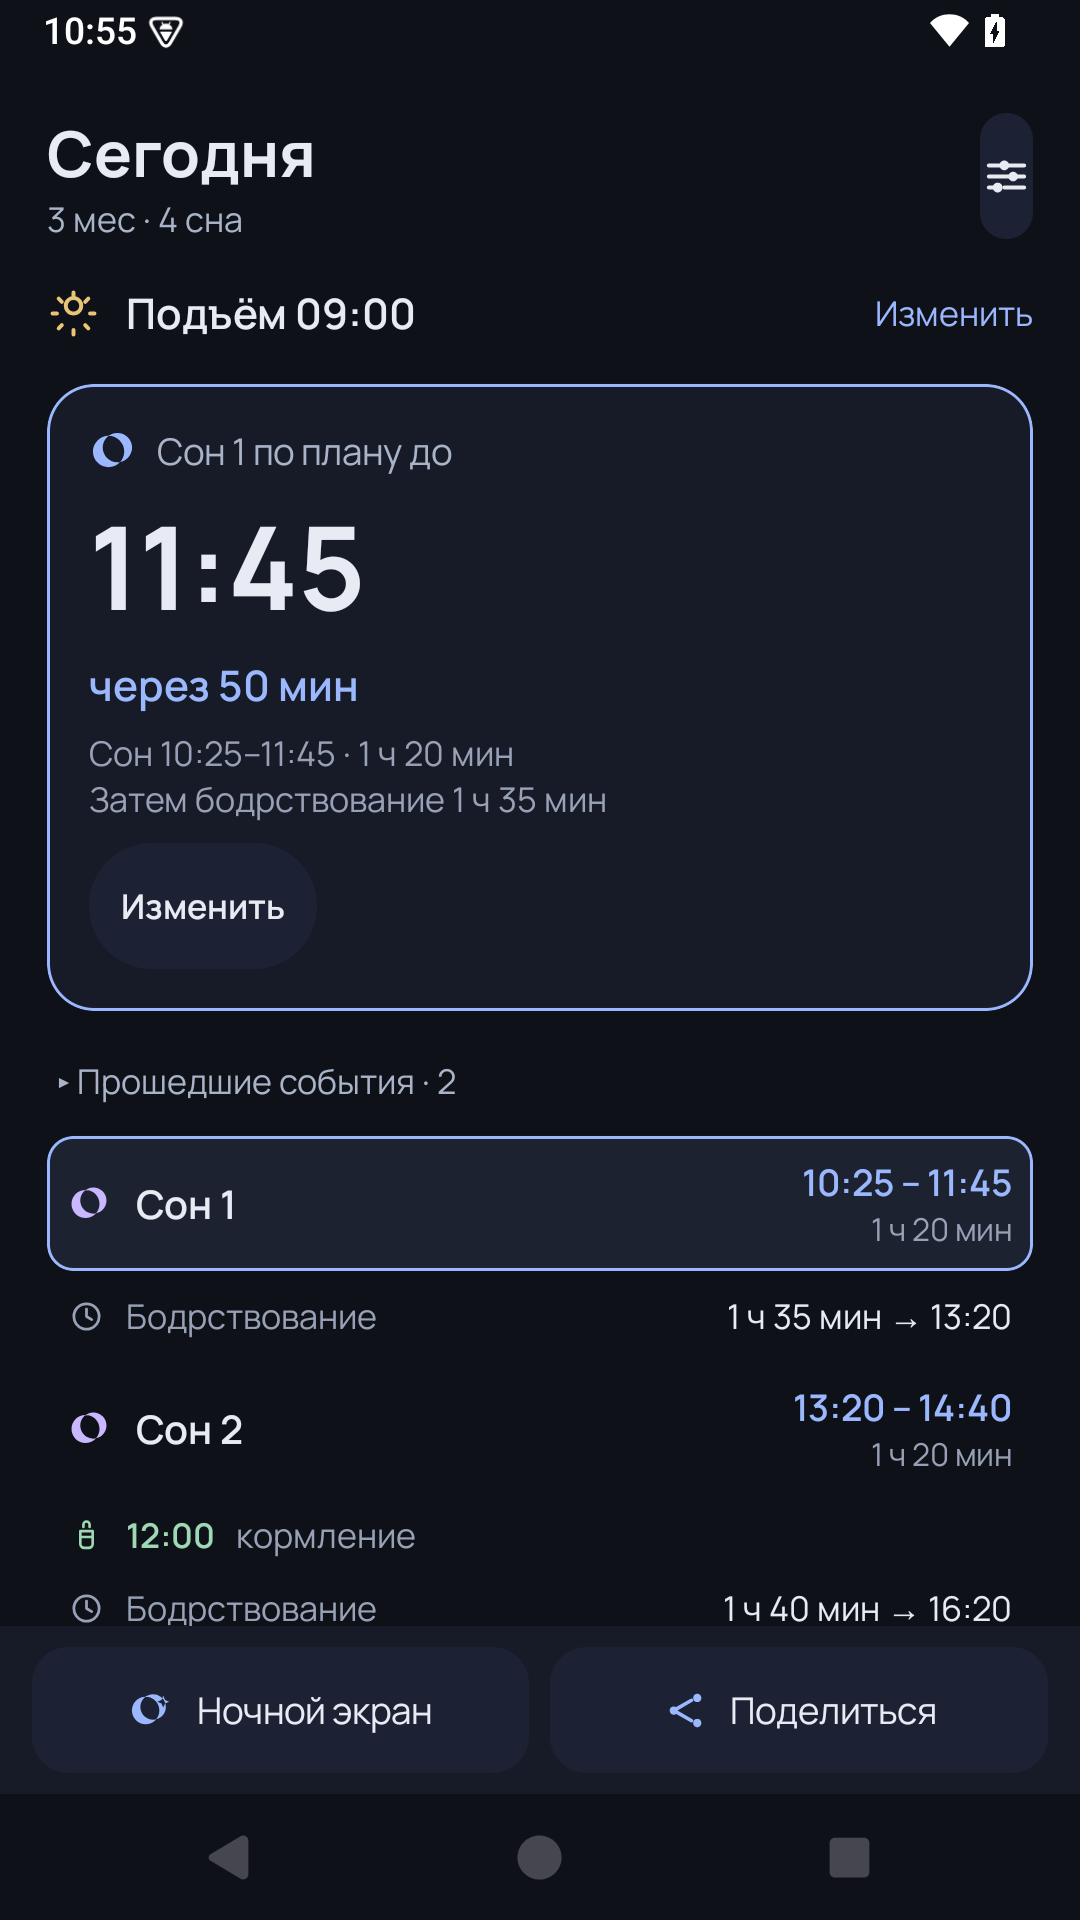
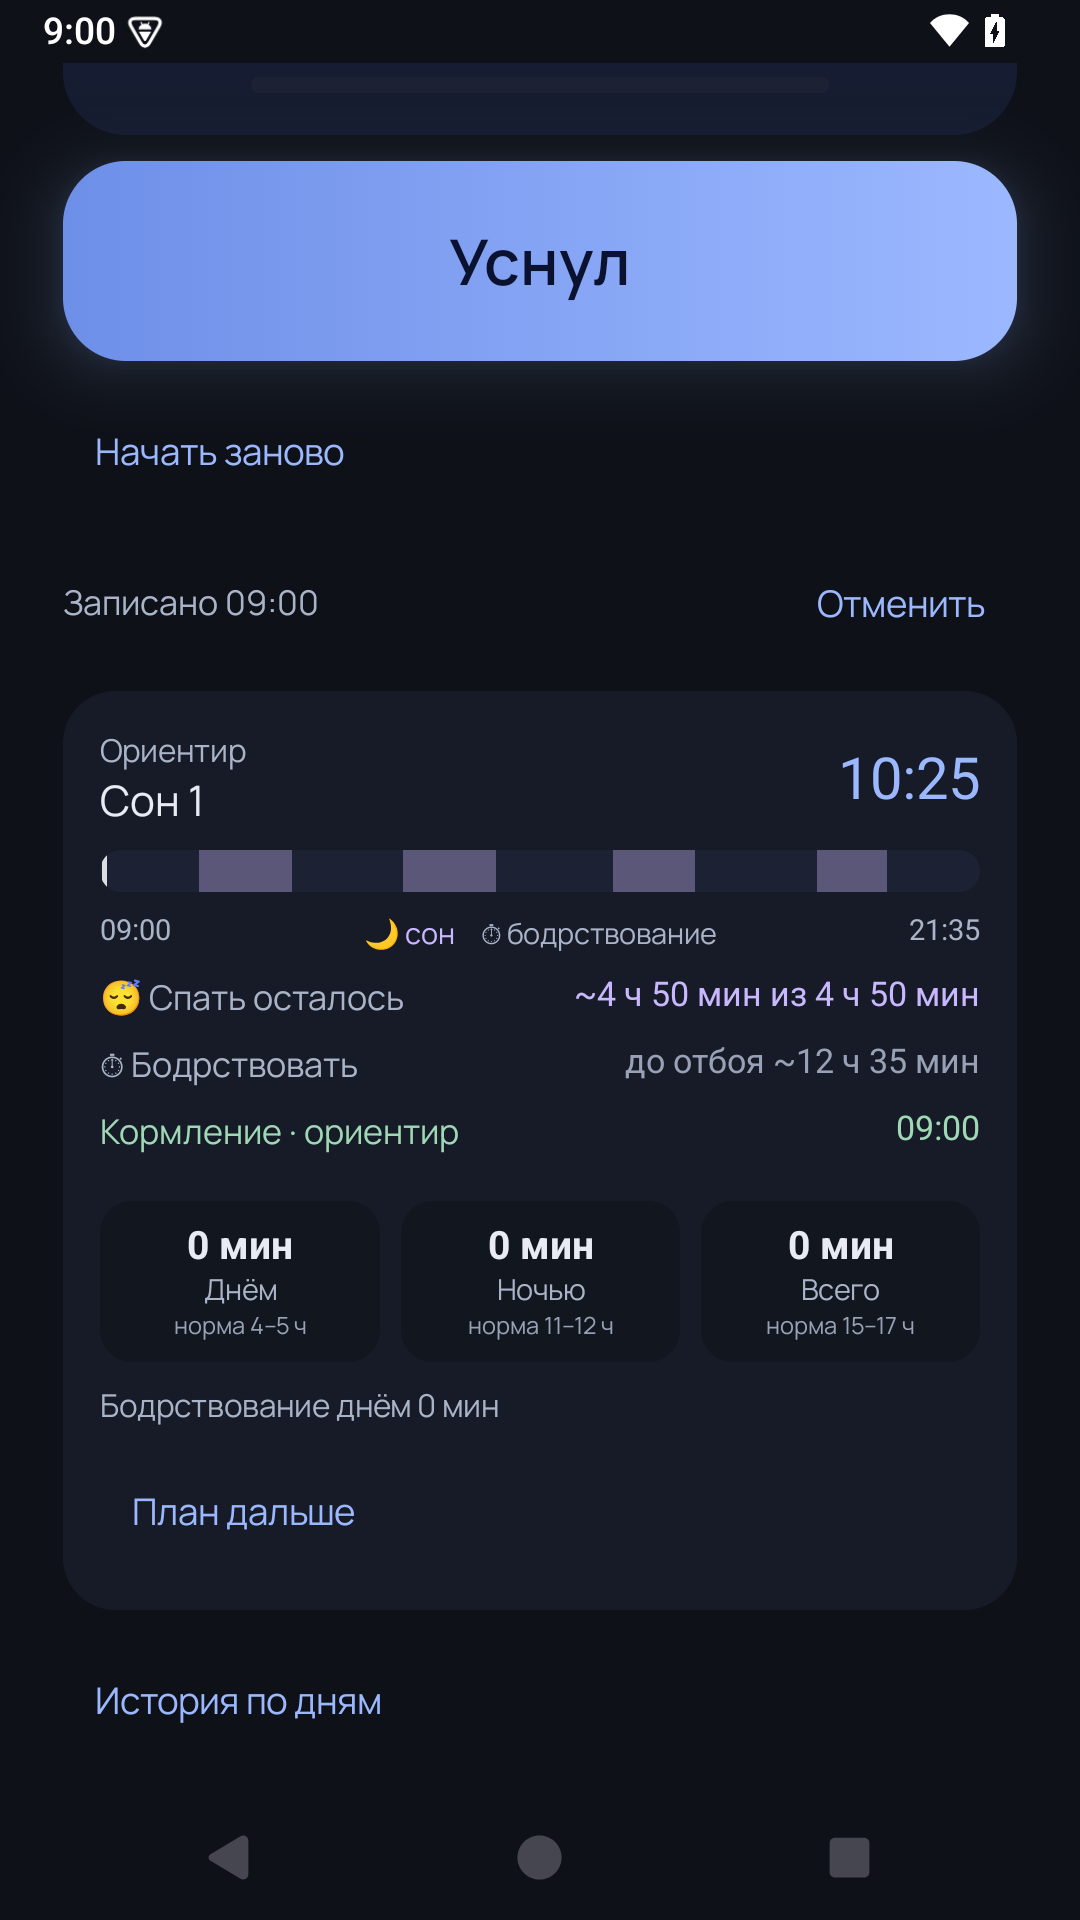
REVIEW-BRIEF: постановка ревью v1.16.1 для нейросети (корректность + UX/UI); свежие скриншоты

diff --git a/docs/REVIEW-BRIEF.md b/docs/REVIEW-BRIEF.md
@@ -1,0 +1,119 @@
+# REVIEW BRIEF — ревью BaSleep v1.16.1 (UX/UI + корректность расчётов)
+
+> Скорми этот файл нейросети вместе с исходниками репозитория
+> https://github.com/petershor99-qa/BaSleep (публичный) и скриншотами
+> приложения. Задача — ревью: найти ошибки расчётов и предложить
+> улучшения UX/UI. Это постановка на АНАЛИЗ, не на переделку.
+
+Дата: 08.11.2026. Версия: 1.16.1 (versionCode 19). Автор кода: владелец +
+другой ИИ-ассистент (история коммитов). Перед ревью прочитай
+`AI-INSTRUCTIONS.md` (правила проекта) и `docs/UX-*.md` (что менялось).
+
+## 1. Что за приложение
+
+Трекер сна младенца 3–5 месяцев (сейчас 3 мес), Android, Kotlin,
+Jetpack Compose, тёмная тема, русский язык. Одна главная кнопка
+«Уснул / Проснулся» записывает реальное время с точностью до минуты
+(через панель подтверждения с подставленным временем). Возрастная схема
+(окна бодрствования, число снов, длительности) строит ПРОГНОЗ от
+фактического пробуждения. Есть журнал последних 14 дней, виджет,
+ночной экран, экспорт в Telegram.
+
+## 2. Файлы и зоны ответственности
+
+| Файл | Что внутри | Строк |
+|---|---|---|
+| `SleepEngine.kt` | Старый калькулятор (прогнозная база, объект SleepEngine) + **LiveTracker** — трекер: фазы READY/AWAKE/NAP/NIGHT/NIGHT_AWAKE, toggle/startNight/startDay/clockTime/correct/forecasts/nextFeed | ~611 |
+| `History.kt` | Журнал интервалов текстом в SharedPreferences: parse/serialize/transition/totals/days, хвост 14 дней | 130 |
+| `Prefs.kt` | Сессия+undo атомарно, history, кормления, настройки, loadLive с флагом corrupt | 93 |
+| `MainActivity.kt` | Весь UI: герой с градиентом, панель записи (ClockEditor), карточка «День» (полоса сегментами), плитки факта, настройки, ночной экран | ~1000 |
+| `WidgetNext.kt` | Виджет: фаза + ближайший прогноз + полоса прогресса этапа | 70 |
+
+Тесты: `SleepEngineTest.kt` (27), `LiveTrackerTest.kt` (15), `HistoryTest.kt`
+(12), `TimeInputTest.kt` (2) = 56. Все зелёные. Сборка:
+`gradle :app:testDebugUnitTest :app:assembleDebug` (JDK 17, SDK 35).
+
+## 3. Задача А — ревью корректности (приоритет)
+
+Проверь, что приложение «точно всё считает и делает правильно». Особенно:
+
+1. **LiveTracker.toggle/startNight/startDay/correct** — хронология, границы
+   (событие ровно в предыдущее, ровно в «сейчас», ночь через полночь,
+   clockTime «вчера» для будущих часов: можно ли записать событие старше
+   24 ч? Требование UX-1.14: только часы/минуты, последнее прошедшее
+   вхождение).
+2. **forecasts()** — прогноз от факта: компенсация после короткого/длинного
+   сна (±15 мин, clamp), учёт regress, конец схемы (все 4 сна отработаны —
+   должен остаться «Ночной сон»), NIGHT-фаза (ночь = 1440 − Σокон − Σснов —
+   не зависит от regress: осознанно или недосмотр?).
+3. **History.transition/totals** — как buckets'ятся ночи (поле day =
+   dayStart предыдущего подъёма): корректно ли «Прошлой ночью» на главном
+   экране (MainActivity берёт maxByOrNull { it.end } из ВСЕХ NIGHT,
+   не фильтруя по дню), при ночи через полночь, при «Начать заново».
+4. **Полоса дня на главном** — анкер: wakeTod из state.dayStart; если день
+   сдвинут (проснулся в 11:53), план строится от 09:00? Проверь логику
+   выравнивания плана и факта, маркер «сейчас» (nowMin vs dayLen),
+   подсветку текущего сегмента.
+5. **Prefs.saveLive/loadLive** — атомарность, corrupt-флаг, undo глубиной 1.
+6. **WidgetNext** — RemoteViews, setInt/setTextColor ограничения, PendingIntent.
+7. **Крайние случаи**: DST-переход, смена дня во время открытой панели,
+   «Отменить» после «Начать заново», повторный быстрый тап (900 мс guard),
+   corrupt-сессия, пустые feeds, feeds после полуночи (nextFeed).
+
+Формат находок: **P1 (ошибка расчёта/логики) / P2 (UX-баг) / P3 (мелочь)**,
+каждая — файл:строка, сценарий воспроизведения, ожидание vs факт. Сначала
+подтверди по коду, потом предлагай минимальный фикс. Всё, что меняет
+математику — только в SleepEngine.kt + тесты (в проекте правило:
+изменение движка без теста = баг).
+
+## 4. Задача Б — ревью UX/UI
+
+Смотри скриншоты (приложены к этому брифу) и/или запусти на эмуляторе
+(инструкция в AI-INSTRUCTIONS.md, screen 1080×2340, density 420).
+
+Главный экран сейчас: шапка (имя · схема, шестерёнка) → герой-карточка с
+градиентом (статус, длительность, «С 09:00», подсказка нормы с полоской) →
+градиентная кнопка «Уснул/Проснулся» → «Начать заново» → undo-строка →
+карточка «День» (полоса дня сегментами с подписями времени и легендой,
+«Ориентир» с временем, «😴 Спать осталось», «⏱ до отбоя», кормление,
+плитки «Факт»: Дневной сон / Прошлой ночью / За сутки, «План дальше») →
+«История по дням».
+
+Оцени и предложи (по 1–2 строки на идею, с приоритетом):
+1. Понятность полосы дня (сегменты/маркер/подсветка) — пользователь уже
+   путался «тёмный кусок = спит?».
+2. Плитки факта: подписи «Дневной сон / Прошлой ночью / За сутки» — ясны ли
+   без объяснений; подсветка у лимитов (янтарная за 15 мин до нормы).
+3. Панель записи: автофокус «Часы» с выделенным текстом, авто-переход на
+   «Минуты» — достаточно ли, что ещё улучшить.
+4. Визуал: градиенты, свечение кнопки, breathing-анимация — куда добавить
+   «красоты» без пестроты (палитра: фон #0E1118, поверхность #161B27,
+   акцент #9BB8FF, ночь #C9B8FF, предупреждение #E8C476, кормления #9FD8B4,
+   Manrope).
+5. Информационная иерархия: чего на экране слишком много, что свернуть.
+6. Доступность: контраст, зоны нажатия, TalkBack semantics (уже есть —
+   проверить полноту).
+
+Не предлагать: облако/аккаунты, аналитику, напоминания (отказ владельца),
+автоопределение сна по сенсорам, полное изменение медицинских норм.
+
+## 5. Ограничения проекта (не нарушать)
+
+- Русский UI, тёмная тема, Manrope, палитра выше.
+- Все изменения движка — с тестами; UI-версия: versionCode+1.
+- Состояние: SharedPreferences, совместимость с существующими ключами,
+  не терять данные при обновлении.
+- Никаких сетей, аналитики, внешних зависимостей рантайма.
+- Ключи подписи вне git (схема ~/.basleep — см. AI-INSTRUCTIONS).
+
+## 6. Формат ответа
+
+1. **Вердикт по корректности**: считает ли приложение правильно; список
+   находок P1/P2/P3 (или «ошибок не найдено» с перечнем проверенного).
+2. **UX/UI**: топ-5–8 предложений по влиянию, каждое — что изменить, зачем,
+   effort (S/M/L).
+3. **Что точно НЕ трогать** (что уже хорошо).
+4. Если предлагаешь правки движка — готовые функции целиком + тесты.
+
+Не переписывать приложение целиком. Не делать работу без подтверждения
+владельца — эта постановка только на анализ.
